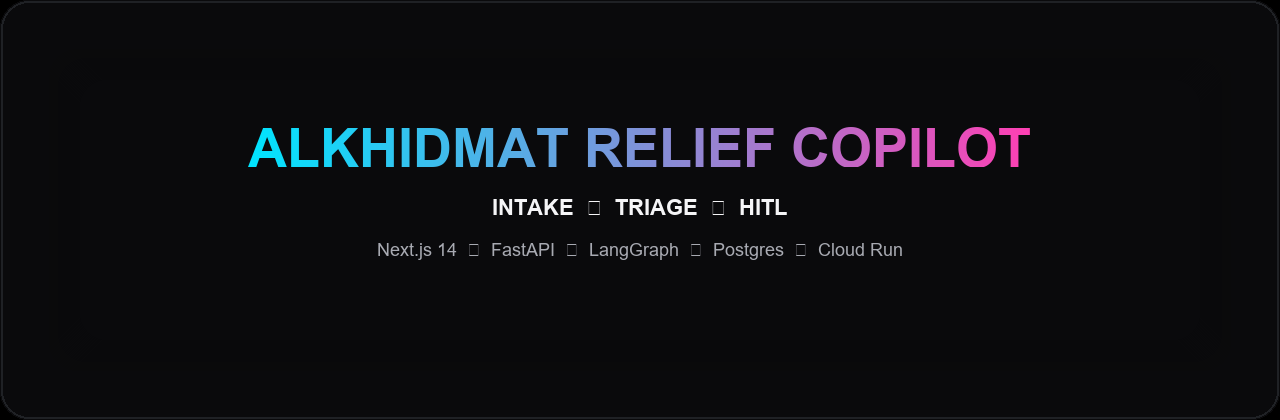
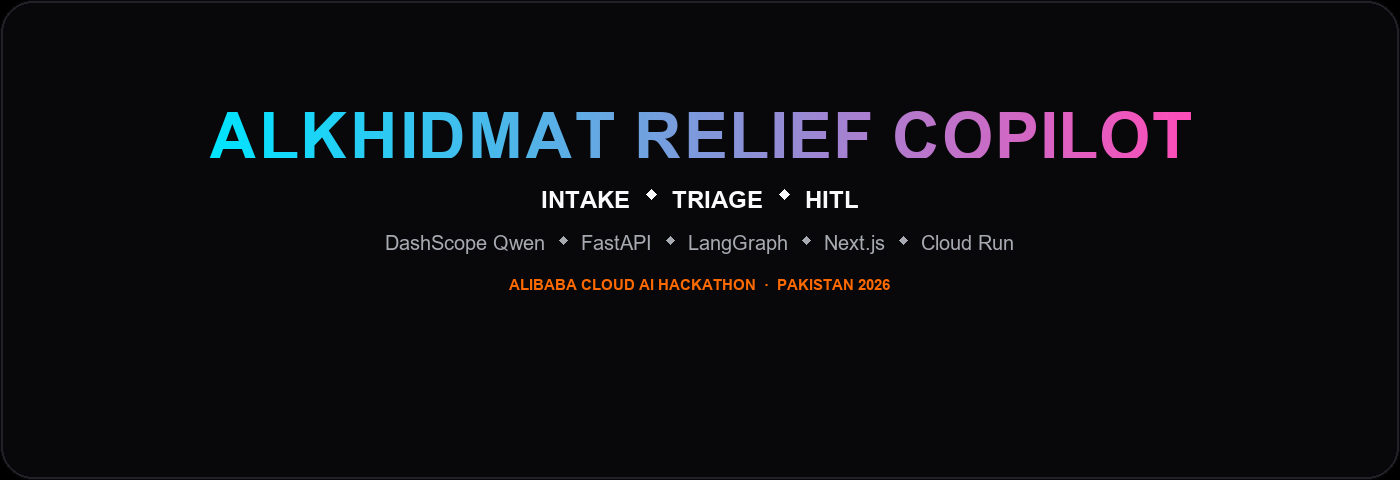
docs: tighten README hero with DashScope Qwen and Alibaba branding

Changed region(s): [[0.125, 0.2167, 0.875, 0.4333], [0.2812, 0.5571, 0.7188, 0.619], [0.2812, 0.4643, 0.7188, 0.5262]]

diff --git a/docs/assets/gen_readme_banner.py b/docs/assets/gen_readme_banner.py
@@ -1,20 +1,22 @@
-"""Generate docs/assets/readme-banner.png for GitHub README hero."""
+"""Generate docs/assets/readme-banner.png — VisionsCraft-style hero for README."""
+
+from __future__ import annotations
 
 from pathlib import Path
 
 from PIL import Image, ImageDraw, ImageFont
 
-W, H = 1280, 420
-RADIUS = 28
-BG = (10, 10, 12)
+W, H = 1400, 480
+RADIUS = 32
+BG = (8, 8, 10)
 OUT = Path(__file__).with_name("readme-banner.png")
 
 
-def load_font(size: int, bold: bool = True) -> ImageFont.FreeTypeFont | ImageFont.ImageFont:
+def load_font(size: int, bold: bool = True) -> ImageFont.ImageFont:
     candidates = [
         r"C:\Windows\Fonts\arialbd.ttf" if bold else r"C:\Windows\Fonts\arial.ttf",
+        r"C:\Windows\Fonts\seguisb.ttf" if bold else r"C:\Windows\Fonts\segoeui.ttf",
         r"C:\Windows\Fonts\segoeuib.ttf" if bold else r"C:\Windows\Fonts\segoeui.ttf",
-        r"C:\Windows\Fonts\calibrib.ttf" if bold else r"C:\Windows\Fonts\calibri.ttf",
     ]
     for path in candidates:
         try:
@@ -24,9 +26,82 @@ def load_font(size: int, bold: bool = True) -> ImageFont.FreeTypeFont | ImageFon
     return ImageFont.load_default()
 
 
-def text_size(font: ImageFont.ImageFont, text: str) -> tuple[int, int]:
+def measure(font: ImageFont.ImageFont, text: str) -> tuple[int, int]:
     bbox = font.getbbox(text)
     return bbox[2] - bbox[0], bbox[3] - bbox[1]
+
+
+def draw_diamond(draw: ImageDraw.ImageDraw, cx: int, cy: int, size: int, fill: tuple[int, ...]) -> None:
+    s = size
+    draw.polygon([(cx, cy - s), (cx + s, cy), (cx, cy + s), (cx - s, cy)], fill=fill)
+
+
+def centered_words_with_diamonds(
+    draw: ImageDraw.ImageDraw,
+    y: int,
+    words: list[str],
+    font: ImageFont.ImageFont,
+    fill: tuple[int, ...],
+    diamond_fill: tuple[int, ...],
+    diamond_size: int = 5,
+    gap: int = 18,
+) -> int:
+    """Draw WORDS separated by filled diamonds; return line height."""
+    widths = [measure(font, w)[0] for w in words]
+    _, line_h = measure(font, words[0])
+    total = sum(widths) + gap * (len(words) - 1) + diamond_size * 2 * (len(words) - 1) + gap * (len(words) - 1)
+    x = (W - total) // 2
+    cy = y + line_h // 2
+    for i, word in enumerate(words):
+        draw.text((x, y), word, font=font, fill=fill)
+        x += widths[i]
+        if i < len(words) - 1:
+            x += gap
+            draw_diamond(draw, x + diamond_size, cy, diamond_size, diamond_fill)
+            x += diamond_size * 2 + gap
+    return line_h
+
+
+def gradient_spaced_text(
+    img: Image.Image,
+    center_x: int,
+    y: int,
+    text: str,
+    font: ImageFont.ImageFont,
+    tracking: float = 0.045,
+) -> int:
+    parts: list[tuple[str, int]] = []
+    total_w = 0
+    max_h = 0
+    for i, ch in enumerate(text):
+        cw, ch_h = measure(font, ch)
+        gap = int(cw * tracking) if i < len(text) - 1 else 0
+        parts.append((ch, cw + gap))
+        total_w += cw + gap
+        max_h = max(max_h, ch_h)
+
+    pad = 8
+    grad = Image.new("RGBA", (total_w + 2, max_h + pad), (0, 0, 0, 0))
+    gd = ImageDraw.Draw(grad)
+    for x in range(total_w + 2):
+        t = x / max(total_w + 1, 1)
+        r = int(0 + 255 * t)
+        g = int(229 + (77 - 229) * t)
+        b = int(255 + (184 - 255) * t)
+        gd.line([(x, 0), (x, max_h + pad - 1)], fill=(r, g, b, 255))
+
+    mask = Image.new("L", (total_w + 2, max_h + pad), 0)
+    md = ImageDraw.Draw(mask)
+    cursor = 0
+    for ch, advance in parts:
+        md.text((cursor, 0), ch, font=font, fill=255)
+        cursor += advance
+
+    colored = Image.new("RGBA", (total_w + 2, max_h + pad), (0, 0, 0, 0))
+    colored.paste(grad, (0, 0))
+    colored.putalpha(mask)
+    img.paste(colored, (center_x - total_w // 2, y), colored)
+    return max_h
 
 
 def main() -> None:
@@ -36,69 +111,52 @@ def main() -> None:
     ImageDraw.Draw(mask).rounded_rectangle((0, 0, W - 1, H - 1), radius=RADIUS, fill=255)
     img = Image.composite(base, img, mask)
 
-    vignette = Image.new("RGBA", (W, H), (0, 0, 0, 0))
-    vd = ImageDraw.Draw(vignette)
-    for i in range(80):
-        a = int(18 * (i / 80))
-        vd.rounded_rectangle(
-            (i, i, W - 1 - i, H - 1 - i),
-            radius=RADIUS,
-            outline=(0, 0, 0, a),
-        )
-    img = Image.alpha_composite(img, vignette)
-    draw = ImageDraw.Draw(img)
-
-    title = "ALKHIDMAT RELIEF COPILOT"
-    subtitle = "INTAKE  ◆  TRIAGE  ◆  HITL"
-    stack = "Next.js 14  ◆  FastAPI  ◆  LangGraph  ◆  Postgres  ◆  Cloud Run"
-
-    title_font = load_font(54, True)
-    tw, th = text_size(title_font, title)
-    if tw > W - 80:
-        title_font = load_font(44, True)
-        tw, th = text_size(title_font, title)
-
-    sub_font = load_font(22, True)
-    stack_font = load_font(18, False)
-
-    tx = (W - tw) // 2
-    ty = 118
-
-    # cyan (#00E5FF) → pink (#FF40B4)
-    grad = Image.new("RGBA", (tw, th + 8), (0, 0, 0, 0))
-    gd = ImageDraw.Draw(grad)
-    for x in range(tw):
-        t = x / max(tw - 1, 1)
-        r = int(0 + (255 - 0) * t)
-        g = int(229 + (64 - 229) * t)
-        b = int(255 + (180 - 255) * t)
-        gd.line([(x, 0), (x, th + 7)], fill=(r, g, b, 255))
-
-    text_mask = Image.new("L", (tw, th + 8), 0)
-    ImageDraw.Draw(text_mask).text((0, 0), title, font=title_font, fill=255)
-    colored = Image.new("RGBA", (tw, th + 8), (0, 0, 0, 0))
-    colored.paste(grad, (0, 0))
-    colored.putalpha(text_mask)
-    img.paste(colored, (tx, ty), colored)
-
-    sw, sh = text_size(sub_font, subtitle)
-    sx = (W - sw) // 2
-    sy = ty + th + 36
-    draw.text((sx, sy), subtitle, font=sub_font, fill=(245, 245, 247, 255))
-
-    kw, kh = text_size(stack_font, stack)
-    kx = (W - kw) // 2
-    ky = sy + sh + 28
-    draw.text((kx, ky), stack, font=stack_font, fill=(168, 170, 178, 255))
-
-    border = Image.new("RGBA", (W, H), (0, 0, 0, 0))
-    ImageDraw.Draw(border).rounded_rectangle(
+    edge = Image.new("RGBA", (W, H), (0, 0, 0, 0))
+    ImageDraw.Draw(edge).rounded_rectangle(
         (1, 1, W - 2, H - 2),
         radius=RADIUS,
-        outline=(40, 42, 48, 180),
+        outline=(48, 50, 56, 160),
         width=2,
     )
-    img = Image.alpha_composite(img, border)
+    img = Image.alpha_composite(img, edge)
+    draw = ImageDraw.Draw(img)
+
+    title_font = load_font(66, True)
+    sub_font = load_font(24, True)
+    stack_font = load_font(20, False)
+    brand_font = load_font(15, True)
+
+    y = 100
+    h1 = gradient_spaced_text(img, W // 2, y, "ALKHIDMAT RELIEF COPILOT", title_font)
+    y = y + h1 + 36
+
+    h2 = centered_words_with_diamonds(
+        draw,
+        y,
+        ["INTAKE", "TRIAGE", "HITL"],
+        sub_font,
+        fill=(250, 250, 252, 255),
+        diamond_fill=(250, 250, 252, 255),
+        diamond_size=5,
+        gap=16,
+    )
+    y = y + h2 + 28
+
+    h3 = centered_words_with_diamonds(
+        draw,
+        y,
+        ["DashScope Qwen", "FastAPI", "LangGraph", "Next.js", "Cloud Run"],
+        stack_font,
+        fill=(168, 170, 178, 255),
+        diamond_fill=(168, 170, 178, 255),
+        diamond_size=4,
+        gap=14,
+    )
+    y = y + h3 + 26
+
+    brand = "ALIBABA CLOUD AI HACKATHON  ·  PAKISTAN 2026"
+    bw, _ = measure(brand_font, brand)
+    draw.text(((W - bw) // 2, y), brand, font=brand_font, fill=(255, 106, 0, 255))
 
     final = img.convert("RGB")
     final.save(OUT, "PNG", optimize=True)

diff --git a/README.md b/README.md
@@ -1,19 +1,23 @@
 <p align="center">
-  <img src="docs/assets/readme-banner.png" alt="Alkhidmat Relief Copilot" width="920" />
+  <img src="docs/assets/readme-banner.png" alt="Alkhidmat Relief Copilot — DashScope Qwen · Alibaba Cloud AI Hackathon" width="920" />
 </p>
 
 <p align="center">
-  <img src="https://img.shields.io/badge/Next.js-14-black?style=flat&logo=nextdotjs&logoColor=white" alt="Next.js 14" />
-  <img src="https://img.shields.io/badge/React-18-61DAFB?style=flat&logo=react&logoColor=black" alt="React 18" />
-  <img src="https://img.shields.io/badge/TypeScript-5-3178C6?style=flat&logo=typescript&logoColor=white" alt="TypeScript 5" />
-  <img src="https://img.shields.io/badge/FastAPI-PYTHON-009688?style=flat&logo=fastapi&logoColor=white" alt="FastAPI" />
-  <img src="https://img.shields.io/badge/LangGraph-AGENTS-1C3C3C?style=flat&logo=langchain&logoColor=white" alt="LangGraph" />
+  <img src="https://img.shields.io/badge/NEXT.JS-14-black?style=for-the-badge&logo=nextdotjs&logoColor=white" alt="Next.js 14" />
+  <img src="https://img.shields.io/badge/REACT-18-61DAFB?style=for-the-badge&logo=react&logoColor=black" alt="React 18" />
+  <img src="https://img.shields.io/badge/TYPESCRIPT-5-3178C6?style=for-the-badge&logo=typescript&logoColor=white" alt="TypeScript 5" />
+  <img src="https://img.shields.io/badge/FASTAPI-PYTHON-009688?style=for-the-badge&logo=fastapi&logoColor=white" alt="FastAPI" />
+  <img src="https://img.shields.io/badge/LANGGRAPH-AGENTS-111827?style=for-the-badge" alt="LangGraph" />
 </p>
 
 <p align="center">
-  <img src="https://img.shields.io/badge/PostgreSQL-pgvector-4169E1?style=flat&logo=postgresql&logoColor=white" alt="PostgreSQL pgvector" />
-  <img src="https://img.shields.io/badge/Qwen-DashScope-FF6A00?style=flat&logo=alibabacloud&logoColor=white" alt="Qwen DashScope" />
-  <img src="https://img.shields.io/badge/Google%20Cloud-RUN-4285F4?style=flat&logo=googlecloud&logoColor=white" alt="Google Cloud Run" />
+  <img src="https://img.shields.io/badge/QWEN-DASHSCOPE-FF6A00?style=for-the-badge&logo=alibabacloud&logoColor=white" alt="Qwen via DashScope" />
+  <img src="https://img.shields.io/badge/ALIBABA%20CLOUD-AI%20HACKATHON-FF6A00?style=for-the-badge&logo=alibabacloud&logoColor=white" alt="Alibaba Cloud AI Hackathon" />
+</p>
+
+<p align="center">
+  <img src="https://img.shields.io/badge/POSTGRES-PGVECTOR-4169E1?style=for-the-badge&logo=postgresql&logoColor=white" alt="PostgreSQL pgvector" />
+  <img src="https://img.shields.io/badge/GOOGLE%20CLOUD-RUN-4285F4?style=for-the-badge&logo=googlecloud&logoColor=white" alt="Google Cloud Run" />
 </p>
 
 <p align="center">
@@ -32,7 +36,7 @@
 
 ## What is Alkhidmat Relief Copilot?
 
-**Alkhidmat Relief Copilot** is an **NGO aid desk SaaS** (not a chatbot) for Alibaba Cloud AI Hackathon Pakistan 2026. Citizens submit needs on a public request page; a **LangGraph** pipeline runs **Intake → Triage → Knowledge → Integrity → Matcher → Dispatch**, with a **HITL supervisor gate** for critical or high-risk cases. Staff sign in to tickets, agent traces, metrics, and PDF export — on **FastAPI + Next.js 14 + Postgres/pgvector + Qwen (DashScope)**, live on **Google Cloud Run**.
+**Alkhidmat Relief Copilot** is an **NGO aid desk SaaS** (not a chatbot) built for **Alibaba Cloud AI Hackathon Pakistan 2026**, powered by **Qwen via DashScope**. Citizens submit needs on a public request page; a **LangGraph** pipeline runs **Intake → Triage → Knowledge → Integrity → Matcher → Dispatch**, with a **HITL supervisor gate** for critical or high-risk cases. Staff sign in to tickets, agent traces, metrics, and PDF export — on **FastAPI + Next.js 14 + Postgres/pgvector**, live on **Google Cloud Run**.
 
 ## Capabilities
 
